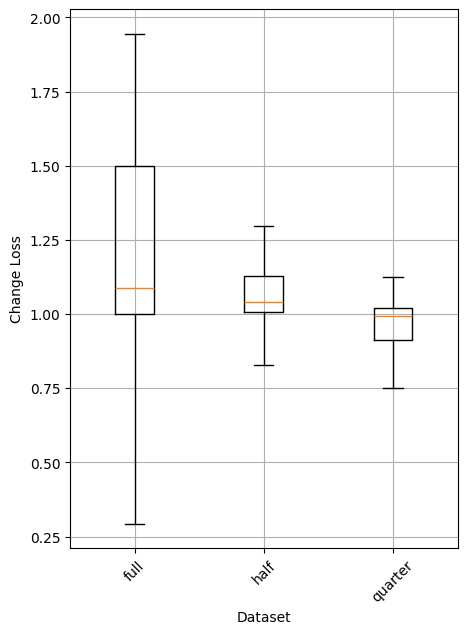
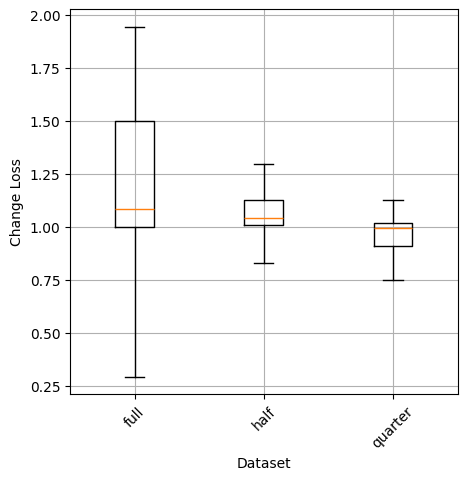
27.02.2024

diff --git a/figures/MutationValues.py b/figures/MutationValues.py
@@ -3,49 +3,49 @@ import matplotlib.pyplot as plt
 
 df = pd.read_hdf("../processed_data/concatenated_data.h5", key="df")
 
-df_not_trained = df[(df.trained_between_iterations == False) & (df.epoch <= 5) & (df.initial_epochs == 1)].groupby('mutation_function')
-df_trained = df[(df.trained_between_iterations == True) & (df.epoch <= 10) & (df.initial_epochs == 1)].groupby('mutation_function')
+df_not_trained = df[(df.trained_between_iterations == False) & (df.epoch <= 5) & (df.initial_epochs == 1) & (abs(df.value) != 0.25)].groupby('value')
+df_trained = df[(df.trained_between_iterations == True) & (df.epoch <= 10) & (df.initial_epochs == 1) & (abs(df.value) != 0.25)].groupby('value')
 
 plt.figure(figsize=(5, 5))
 labels_trained = [name for name, _ in df_trained]
 data_trained = [group['change_accuracy'].tolist() for name, group in df_trained]
 plt.boxplot(data_trained, labels=labels_trained, showfliers=False)
-plt.xlabel('Mutation Function')
+plt.xlabel('Mutatation Value')
 plt.ylabel('Change Accuracy')
 plt.grid()
 plt.xticks(rotation=90)
-plt.savefig('figures/Mutatation_Trained_accuracy.png', bbox_inches='tight')
+plt.savefig('figures/MutatationValue_Trained_accuracy.png', bbox_inches='tight')
 plt.show()
 
 plt.figure(figsize=(5, 5))
 labels_not_trained = [name for name, _ in df_not_trained]
 data_not_trained = [group['change_accuracy'].tolist() for name, group in df_not_trained]
 plt.boxplot(data_not_trained, labels=labels_not_trained, showfliers=False)
-plt.xlabel('Mutation Function')
+plt.xlabel('Mutatation Value')
 plt.ylabel('Change Accuracy')
 plt.xticks(rotation=90)  # Adjust rotation as needed
 plt.grid()
-plt.savefig('figures/Mutatation_NotTrained_accuracy.png', bbox_inches='tight')
+plt.savefig('figures/MutatationValue_NotTrained_accuracy.png', bbox_inches='tight')
 plt.show()
 
 plt.figure(figsize=(5, 5))
 labels_trained = [name for name, _ in df_trained]
 data_trained = [group['change_loss'].tolist() for name, group in df_trained]
 plt.boxplot(data_trained, labels=labels_trained, showfliers=False)
-plt.xlabel('Mutation Function')
+plt.xlabel('Mutatation Value')
 plt.ylabel('Change Loss')
 plt.xticks(rotation=90)  # Adjust rotation as needed
 plt.grid()
-plt.savefig('figures/Mutatation_Trained_loss.png', bbox_inches='tight')
+plt.savefig('figures/MutatationValue_Trained_loss.png', bbox_inches='tight')
 plt.show()
 
 plt.figure(figsize=(5, 5))
 labels_not_trained = [name for name, _ in df_not_trained]
 data_not_trained = [group['change_loss'].tolist() for name, group in df_not_trained]
 plt.boxplot(data_not_trained, labels=labels_not_trained, showfliers=False)
-plt.xlabel('Mutation Function')
+plt.xlabel('Mutatation Value')
 plt.ylabel('Change Loss')
 plt.xticks(rotation=90)  # Adjust rotation as needed
 plt.grid()
-plt.savefig('figures/Mutatation_NotTrained_loss.png', bbox_inches='tight')
+plt.savefig('figures/MutatationValue_NotTrained_loss.png', bbox_inches='tight')
 plt.show()

diff --git a/figures/BreakCondition.py b/figures/BreakCondition.py
@@ -6,7 +6,7 @@ df = pd.read_hdf("../processed_data/concatenated_data.h5", key="df")
 df_not_trained = df[(df.trained_between_iterations == False) & (df.epoch <= 5) & (df.initial_epochs == 1)].groupby('break_condition')
 df_trained = df[(df.trained_between_iterations == True) & (df.epoch <= 10) & (df.initial_epochs == 1)].groupby('break_condition')
 
-plt.figure(figsize=(5, 12))
+plt.figure(figsize=(5, 5))
 labels_trained = [name for name, _ in df_trained]
 data_trained = [group['change_accuracy'].tolist() for name, group in df_trained]
 plt.boxplot(data_trained, labels=labels_trained, showfliers=False)
@@ -17,7 +17,7 @@ plt.grid()
 plt.savefig('figures/BreakCondition_Trained_accuracy.png', bbox_inches='tight')
 plt.show()
 
-plt.figure(figsize=(5, 12))
+plt.figure(figsize=(5, 5))
 labels_not_trained = [name for name, _ in df_not_trained]
 data_not_trained = [group['change_accuracy'].tolist() for name, group in df_not_trained]
 plt.boxplot(data_not_trained, labels=labels_not_trained, showfliers=False)
@@ -28,7 +28,7 @@ plt.grid()
 plt.savefig('figures/BreakCondition_NotTrained_accuracy.png', bbox_inches='tight')
 plt.show()
 
-plt.figure(figsize=(5, 12))
+plt.figure(figsize=(5, 5))
 labels_trained = [name for name, _ in df_trained]
 data_trained = [group['change_loss'].tolist() for name, group in df_trained]
 plt.boxplot(data_trained, labels=labels_trained, showfliers=False)
@@ -39,7 +39,7 @@ plt.grid()
 plt.savefig('figures/BreakCondition_Trained_loss.png', bbox_inches='tight')
 plt.show()
 
-plt.figure(figsize=(5, 12))
+plt.figure(figsize=(5, 5))
 labels_not_trained = [name for name, _ in df_not_trained]
 data_not_trained = [group['change_loss'].tolist() for name, group in df_not_trained]
 plt.boxplot(data_not_trained, labels=labels_not_trained, showfliers=False)

diff --git a/figures/SuspMeassure.py b/figures/SuspMeassure.py
@@ -7,7 +7,7 @@ df = pd.read_hdf("../processed_data/concatenated_data.h5", key="df")
 df_not_trained = df[(df.trained_between_iterations == False) & (df.epoch <= 5) & (df.initial_epochs == 1)].groupby('approach_analysis')
 df_trained = df[(df.trained_between_iterations == True) & (df.epoch <= 10) & (df.initial_epochs == 1)].groupby('approach_analysis')
 
-plt.figure(figsize=(5, 8))
+plt.figure(figsize=(5, 5))
 labels_trained = [name for name, _ in df_trained]
 data_trained = [group['change_accuracy'].tolist() for name, group in df_trained]
 plt.boxplot(data_trained, labels=labels_trained, showfliers=False)
@@ -18,7 +18,7 @@ plt.grid()
 plt.savefig('figures/Meassure_Trained_accuracy.png', bbox_inches='tight')
 plt.show()
 
-plt.figure(figsize=(5, 8))
+plt.figure(figsize=(5, 5))
 labels_not_trained = [name for name, _ in df_not_trained]
 data_not_trained = [group['change_accuracy'].tolist() for name, group in df_not_trained]
 plt.boxplot(data_not_trained, labels=labels_not_trained, showfliers=False)
@@ -29,7 +29,7 @@ plt.grid()
 plt.savefig('figures/Meassure_NotTrained_accuracy.png', bbox_inches='tight')
 plt.show()
 
-plt.figure(figsize=(5, 8))
+plt.figure(figsize=(5, 5))
 labels_trained = [name for name, _ in df_trained]
 data_trained = [group['change_loss'].tolist() for name, group in df_trained]
 plt.boxplot(data_trained, labels=labels_trained, showfliers=False)
@@ -40,7 +40,7 @@ plt.grid()
 plt.savefig('figures/Meassure_Trained_loss.png', bbox_inches='tight')
 plt.show()
 
-plt.figure(figsize=(5, 8))
+plt.figure(figsize=(5, 5))
 labels_not_trained = [name for name, _ in df_not_trained]
 data_not_trained = [group['change_loss'].tolist() for name, group in df_not_trained]
 plt.boxplot(data_not_trained, labels=labels_not_trained, showfliers=False)

diff --git a/figures/DataSetSize.py b/figures/DataSetSize.py
@@ -6,7 +6,7 @@ df = pd.read_hdf("../processed_data/concatenated_data.h5", key="df")
 df_not_trained = df[(df.trained_between_iterations == False) & (df.epoch <= 5) & (df.initial_epochs == 1)].groupby('dataset')
 df_trained = df[(df.trained_between_iterations == True) & (df.epoch <= 10) & (df.initial_epochs == 1)].groupby('dataset')
 
-plt.figure(figsize=(5, 7))
+plt.figure(figsize=(5, 5))
 labels_trained = [name for name, _ in df_trained]
 data_trained = [group['change_accuracy'].tolist() for name, group in df_trained]
 plt.boxplot(data_trained, labels=labels_trained, showfliers=False)
@@ -17,7 +17,7 @@ plt.grid()
 plt.savefig('figures/Dataset_Trained_accuracy.png', bbox_inches='tight')
 plt.show()
 
-plt.figure(figsize=(5, 7))
+plt.figure(figsize=(5, 5))
 labels_not_trained = [name for name, _ in df_not_trained]
 data_not_trained = [group['change_accuracy'].tolist() for name, group in df_not_trained]
 plt.boxplot(data_not_trained, labels=labels_not_trained, showfliers=False)
@@ -28,7 +28,7 @@ plt.grid()
 plt.savefig('figures/Dataset_NotTrained_accuracy.png', bbox_inches='tight')
 plt.show()
 
-plt.figure(figsize=(5, 7))
+plt.figure(figsize=(5, 5))
 labels_trained = [name for name, _ in df_trained]
 data_trained = [group['change_loss'].tolist() for name, group in df_trained]
 plt.boxplot(data_trained, labels=labels_trained, showfliers=False)
@@ -39,7 +39,7 @@ plt.grid()
 plt.savefig('figures/Dataset_Trained_loss.png', bbox_inches='tight')
 plt.show()
 
-plt.figure(figsize=(5, 7))
+plt.figure(figsize=(5, 5))
 labels_not_trained = [name for name, _ in df_not_trained]
 data_not_trained = [group['change_loss'].tolist() for name, group in df_not_trained]
 plt.boxplot(data_not_trained, labels=labels_not_trained, showfliers=False)

diff --git a/figures/Offset.py b/figures/Offset.py
@@ -8,7 +8,7 @@ df = df[df.epoch <= 20]
 df_not_trained = df[(df.trained_between_iterations == False) & (df.epoch <= 5) & (df.initial_epochs == 1)].groupby('regression_loss_offset')
 df_trained = df[(df.trained_between_iterations == True) & (df.epoch <= 10) & (df.initial_epochs == 1)].groupby('regression_loss_offset')
 
-plt.figure(figsize=(5, 6))
+plt.figure(figsize=(5, 5))
 labels_trained = [name for name, _ in df_trained]
 data_trained = [group['change_accuracy'].tolist() for name, group in df_trained]
 plt.boxplot(data_trained, labels=labels_trained, showfliers=False)
@@ -19,7 +19,7 @@ plt.grid()
 plt.savefig('figures/Offset_Trained_accuracy.png', bbox_inches='tight')
 plt.show()
 
-plt.figure(figsize=(5, 6))
+plt.figure(figsize=(5, 5))
 labels_not_trained = [name for name, _ in df_not_trained]
 data_not_trained = [group['change_accuracy'].tolist() for name, group in df_not_trained]
 plt.boxplot(data_not_trained, labels=labels_not_trained, showfliers=False)
@@ -30,7 +30,7 @@ plt.grid()
 plt.savefig('figures/Offset_NotTrained_accuracy.png', bbox_inches='tight')
 plt.show()
 
-plt.figure(figsize=(5, 6))
+plt.figure(figsize=(5, 5))
 labels_trained = [name for name, _ in df_trained]
 data_trained = [group['change_loss'].tolist() for name, group in df_trained]
 plt.boxplot(data_trained, labels=labels_trained, showfliers=False)
@@ -41,7 +41,7 @@ plt.grid()
 plt.savefig('figures/Offset_Trained_loss.png', bbox_inches='tight')
 plt.show()
 
-plt.figure(figsize=(5, 6))
+plt.figure(figsize=(5, 5))
 labels_not_trained = [name for name, _ in df_not_trained]
 data_not_trained = [group['change_loss'].tolist() for name, group in df_not_trained]
 plt.boxplot(data_not_trained, labels=labels_not_trained, showfliers=False)

diff --git a/Bachelorarbeit/chapters/results1.tex b/Bachelorarbeit/chapters/results1.tex
@@ -248,3 +248,28 @@ In contrast, the non-trained \ref{fig:mutation-functions-notraining} runs yielde
     \caption{Loss and accuracy, without training, with different mutation functions}
     \label{fig:mutation-functions-notraining}
 \end{figure}
+In regard to the values we are using for the mutation functions, there is no significant difference between the different values for the trained runs \ref{fig:mutation-values-training} or the untrained runs \ref{fig:mutation-values-notraining}.
+\begin{figure}
+    \begin{subfigure}{0.5\textwidth}
+        \centering
+        \includegraphics[width=0.95\textwidth]{plots/MutatationValue_Trained_accuracy.png}
+    \end{subfigure}
+    \begin{subfigure}{0.5\textwidth}
+        \centering
+        \includegraphics[width=0.95\textwidth]{plots/MutatationValue_Trained_loss.png}
+    \end{subfigure}
+    \caption{Loss and accuracy, with training, with different mutation values}
+    \label{fig:mutation-values-training}
+\end{figure}
+\begin{figure}
+    \begin{subfigure}{0.5\textwidth}
+        \centering
+        \includegraphics[width=0.95\textwidth]{plots/MutatationValue_NotTrained_accuracy.png}
+    \end{subfigure}
+    \begin{subfigure}{0.5\textwidth}
+        \centering
+        \includegraphics[width=0.95\textwidth]{plots/MutatationValue_NotTrained_loss.png}
+    \end{subfigure}
+    \caption{Loss and accuracy, without training, with different mutation values}
+    \label{fig:mutation-values-notraining}
+\end{figure}
